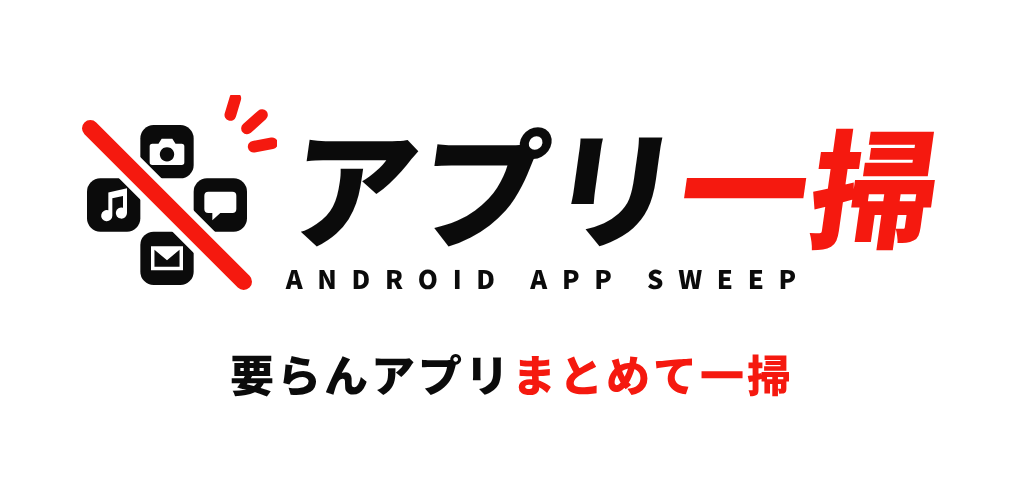
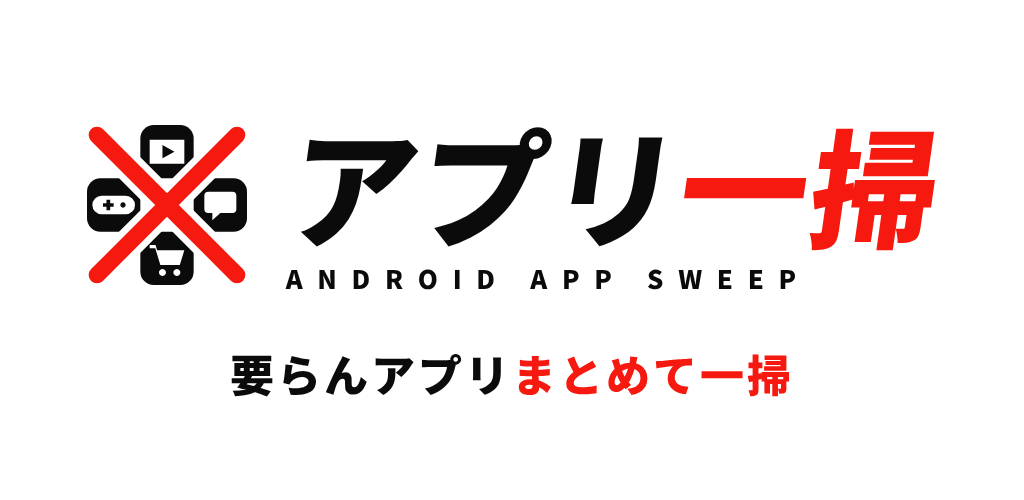
アプリ一掃: アイコンとロゴを、動画・ゲーム・チャット・買い物のアプリの絵柄に赤い ✖ の形に
Claude-Session: https://claude.ai/code/session_01WQewJuRn2mGB1EbdpVRuwB

Changed region(s): [[0.0625, 0.18, 0.2812, 0.57], [0.2188, 0.54, 0.25, 0.6], [0.0625, 0.24, 0.0938, 0.27]]

diff --git a/sweep-android/store/render-graphics.js b/sweep-android/store/render-graphics.js
@@ -11,22 +11,21 @@ const face = (file) => fontDir && fs.existsSync(`${fontDir}/${file}`)
 const fonts = `<style>${face('noto-sans-jp-japanese-900-normal.woff2')}${face('noto-sans-jp-latin-900-normal.woff2')}
   body{margin:0;font-family:Logo,'Noto Sans JP','IPAPGothic',sans-serif;font-weight:900}</style>`;
 
-// アプリのアイコン 4 つ（カメラ・音楽・チャット・メール）をひし形に並べ、あいだを赤い斜線が通る。
-// 通知パージのベル＋斜線と同じ考え方。ink はタイルの色、gap は絵柄と斜線のふちの色（白地なら白）
+// アプリのアイコン 4 つ（動画・ゲーム・チャット・買い物）をひし形に並べ、あいだを赤い ✖ が通る。
+// ink はタイルの色、gap は絵柄と ✖ のふちの色（白地なら白）
 const TILE = 'M5,0h10a5,5 0 0 1 5,5v10a5,5 0 0 1 -5,5h-10a5,5 0 0 1 -5,-5v-10a5,5 0 0 1 5,-5z';
 const GLYPHS = {
-  camera: 'M4.500,7h2.300l1.200,-1.800h4l1.200,1.800h2.300a1,1 0 0 1 1,1v6a1,1 0 0 1 -1,1h-11a1,1 0 0 1 -1,-1v-6a1,1 0 0 1 1,-1z M10,8.300a2.700,2.700 0 1 0 0.001,0z',
-  music: 'M8,5.300l7,-1.600v9.300a2.100,2.100 0 1 1 -1.500,-2v-4.400l-4,0.900v6.500a2.100,2.100 0 1 1 -1.500,-2z',
+  video: 'M3.500,5.500h13v9h-13z M8.300,7.500v5l4.500,-2.500z',
+  game: 'M5.500,6.500h9a3.500,3.500 0 0 1 0,7h-9a3.500,3.500 0 0 1 0,-7z M6,9.300v1.400h1.300v1.300h1.400v-1.300h1.300v-1.400h-1.300v-1.300h-1.400v1.300z M13.500,9a1,1 0 1 0 0.001,0z',
   chat: 'M5.500,5h9a1.500,1.500 0 0 1 1.500,1.500v5a1.500,1.500 0 0 1 -1.500,1.500h-4.500l-3,2.700v-2.700h-1.500a1.500,1.500 0 0 1 -1.500,-1.500v-5a1.500,1.500 0 0 1 1.500,-1.500z',
-  mail: 'M4,5.500h12v9h-12z M5.300,6.800v6.400h9.400v-6.400l-4.700,3.900z',
+  cart: 'M3.500,5h2.200l0.600,2h10.200l-1.700,5.500h-7.300l-1.900,-6.300h-2.100z M8.300,14a1.300,1.300 0 1 0 0.001,0z M13.700,14a1.300,1.300 0 1 0 0.001,0z',
 };
 const tile = (x, y, glyph, ink, gap) => `<g transform="translate(${x} ${y}) scale(0.8)"><path d="${TILE}" fill="${ink}"/><path d="${GLYPHS[glyph]}" fill="${gap}" fill-rule="evenodd"/></g>`;
 const mark = (size, ink, gap, vb = '21 25 66 66') => `
 <svg width="${size}" height="${size}" viewBox="${vb}" xmlns="http://www.w3.org/2000/svg">
-  ${tile(46, 34, 'camera', ink, gap)}${tile(30, 50, 'music', ink, gap)}${tile(62, 50, 'chat', ink, gap)}${tile(46, 66, 'mail', ink, gap)}
-  <path d="M31,35 L77,81" stroke="${gap}" stroke-width="9" stroke-linecap="round"/>
-  <path d="M31,35 L77,81" stroke="${RED}" stroke-width="5" stroke-linecap="round"/>
-  <path d="M73,31 L74.500,26 M78,35 L82.500,31 M80,40.500 L85.500,39.500" stroke="${RED}" stroke-width="3.500" stroke-linecap="round" fill="none"/>
+  ${tile(46, 34, 'video', ink, gap)}${tile(30, 50, 'game', ink, gap)}${tile(62, 50, 'chat', ink, gap)}${tile(46, 66, 'cart', ink, gap)}
+  <path d="M33,37 L75,79 M75,37 L33,79" stroke="${gap}" stroke-width="9" stroke-linecap="round" fill="none"/>
+  <path d="M33,37 L75,79 M75,37 L33,79" stroke="${RED}" stroke-width="5" stroke-linecap="round" fill="none"/>
 </svg>`;
 
 const wordmark = (ink, px) => `
